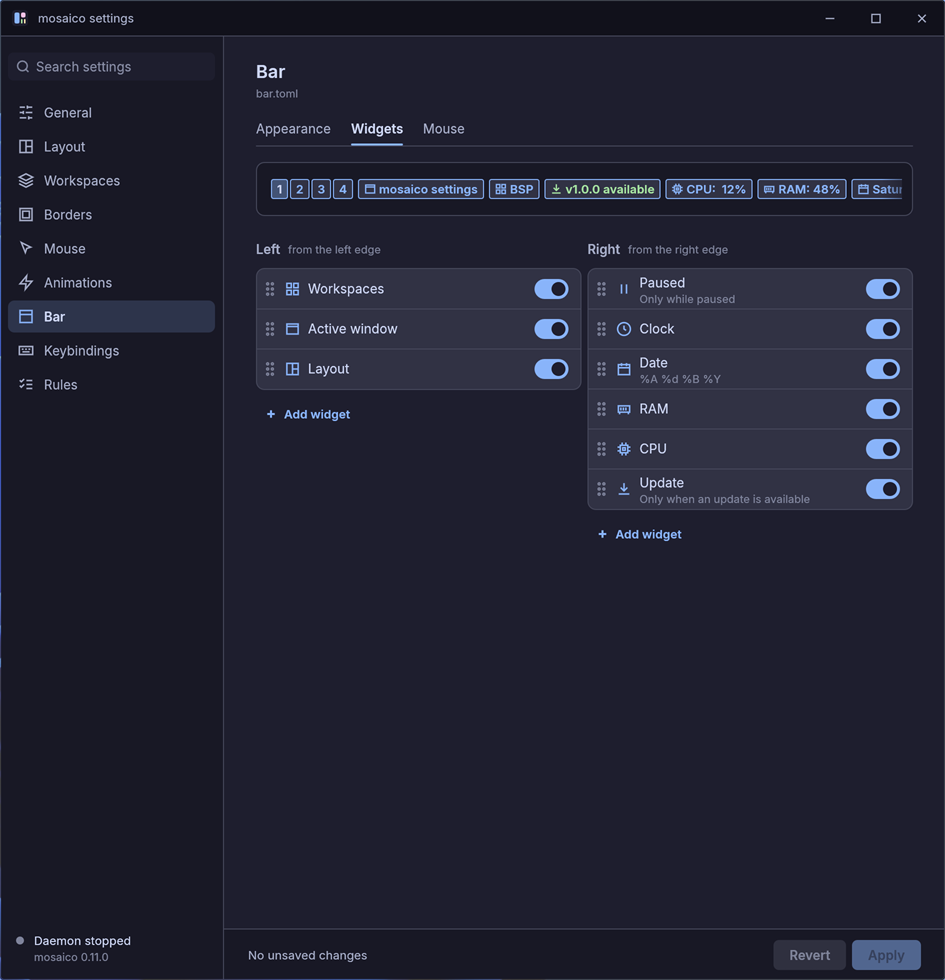
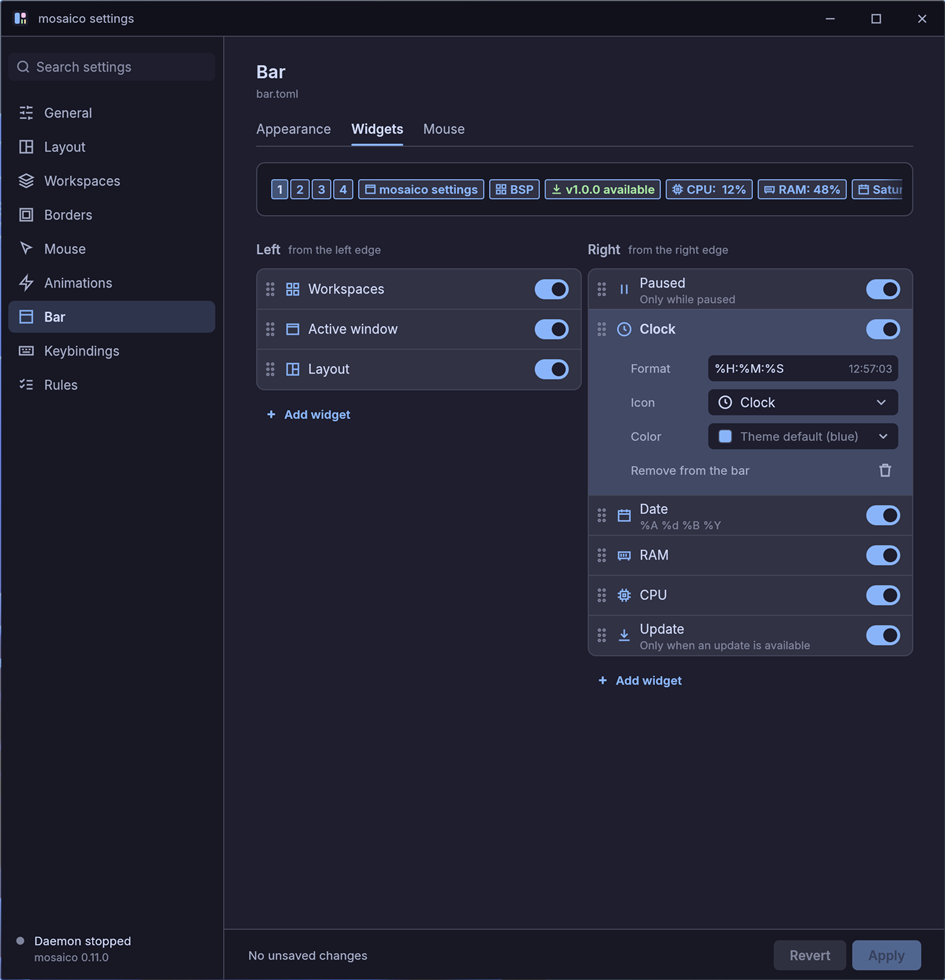
docs(website): show the settings window in a light flavor and add it to the cheatsheet (#194)
Adds a Catppuccin Latte shot of the General page, refreshes the Widgets shot with the clock options open, and lists mosaico settings and the tray menu in the cheatsheet.

diff --git a/website/src/guide/settings.md b/website/src/guide/settings.md
@@ -85,7 +85,11 @@ icon comes back by itself when Explorer restarts. Set `enabled = false` under
 | Startup | Tray icon (`config.toml`), start at sign-in (registry) | `config.toml`, registry |
 | Logging | Write a log file, level, maximum file size | `config.toml` |
 
-Picking a theme or flavor previews it in the settings window right away.
+Picking a theme or flavor previews it in the settings window right away. The
+window follows the theme, so a light flavor such as Catppuccin Latte gives a
+light window.
+
+![The General page with the Catppuccin Latte flavor](../images/settings/general-latte.png)
 
 ## Layout
 

diff --git a/website/src/guide/cheatsheet.md b/website/src/guide/cheatsheet.md
@@ -137,6 +137,11 @@ pill while paused; click it to resume.
 | -- | Check status | `mosaico status` |
 | -- | Reload config (automatic) | edit `config.toml`, save |
 | -- | Diagnose setup | `mosaico doctor` |
+| -- | Open the settings window | `mosaico settings`, or click the tray icon |
+
+The tray icon menu also pauses and resumes hotkeys, reloads the config, opens
+the config folder or the log, and quits mosaico. See
+[Settings Window](settings.md#tray-icon).
 
 ## Modifier Keys
 

diff --git a/.plans/phase-37.md b/.plans/phase-37.md
@@ -335,7 +335,7 @@ and brings its docs, so it can merge on its own.
 - [x] Release artifacts and `mosaico update` include `mosaico-settings`
 - [x] `cargo xtask size` keeps checking `mosaico.exe` and reports the
       settings app's size separately
-- [ ] Docs, website guide with screenshots in a dark and a light flavor,
+- [x] Docs, website guide with screenshots in a dark and a light flavor,
       cheatsheet
 
 ### Verification
